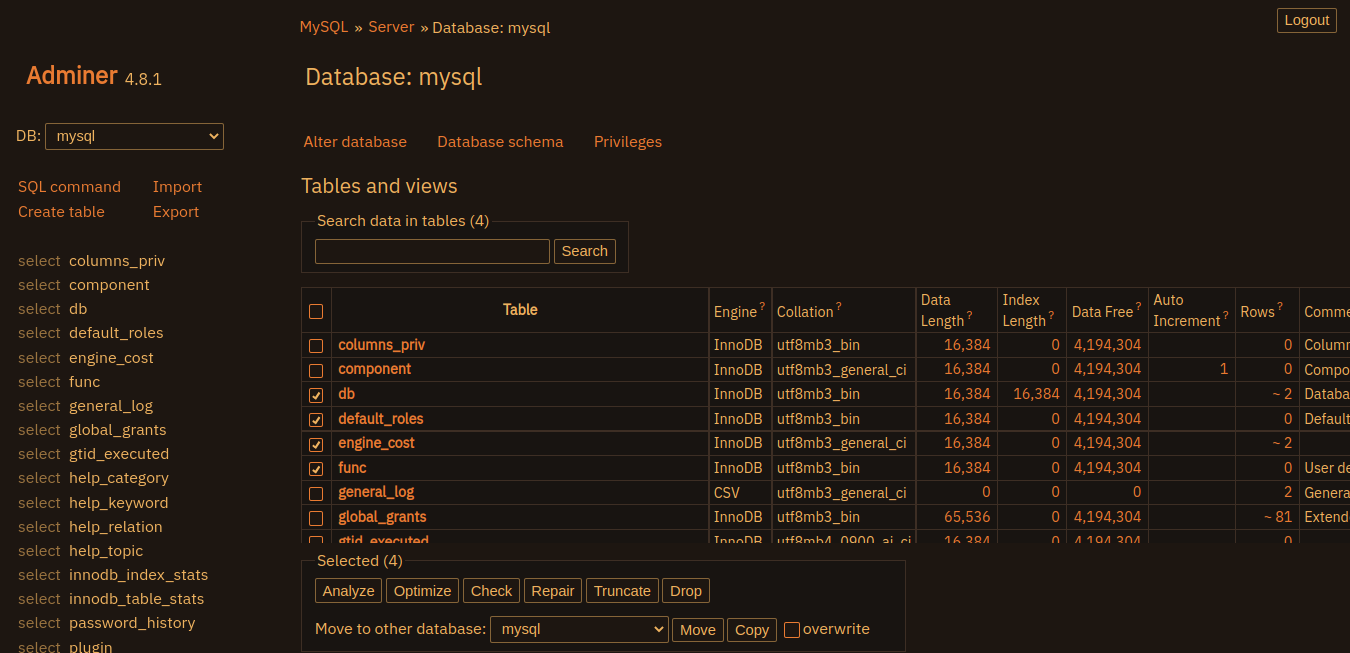
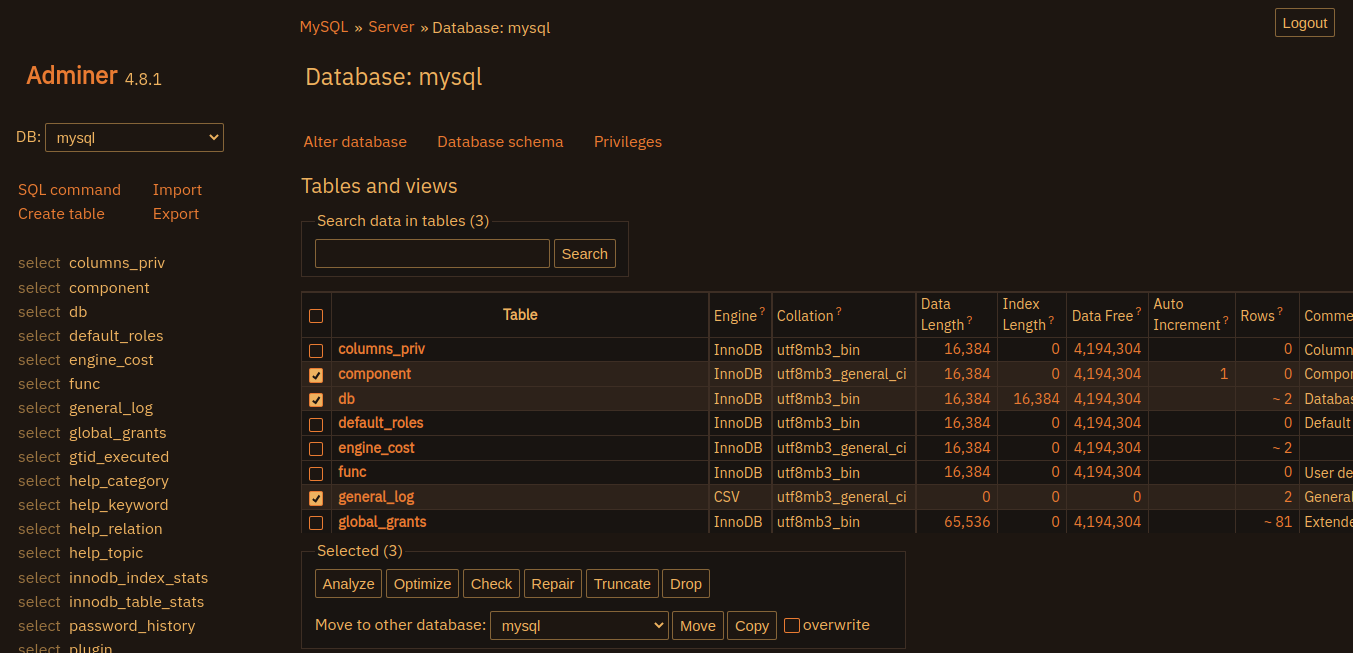
Input alignment fixes, wider scrollbar handle, more visible checkboxes

diff --git a/adminer.min.css b/adminer.min.css
@@ -1,1 +1,1 @@
-@import"https://fonts.googleapis.com/css2?family=IBM+Plex+Sans&display=swap";*{box-sizing:border-box;transition:box-shadow .1s}* :focus{box-shadow:0 0 0 2px rgba(233,123,50,.6);outline:none}::selection{background-color:rgba(233,123,50,.3)}body{background-color:#1d1611;font-family:"IBM Plex Sans",sans-serif;text-rendering:optimizeLegibility;color:#eeb25f}a{color:#e97b32;padding:2px}a:visited{color:#e97b32}a:hover{color:#eeb25f !important}a.active{text-decoration:underline;color:#e97b32;font-weight:normal}h1,h2,#tables a{background-color:inherit;border-bottom:none;color:inherit}.version,span.time{color:#eeb25f}#h1{color:#e97b32;font-weight:bold;font-style:normal}.select{opacity:.6}#menu p{border-bottom:none}#menu .links{display:grid;grid:auto/1fr 1fr}#menu .links a:last-child{grid-row:2}#menu .links a:nth-of-type(3){grid-column:2}#tables{border-bottom:none}#tables li{padding:2px 0}#tables li a:hover+a{text-decoration:underline}#content{margin-left:19em}#breadcrumb{top:.8em;left:19em;background-color:inherit}th,td,fieldset,.table,.error,.message{background-color:#181411 !important;border:1px solid #3d2e24 !important;cursor:default}.table .char{color:#e97b32}.table .date{color:#ace63f}.table .enum{color:#3fe6ae}.table .binary{color:#e63f3f}input[type=submit],button{cursor:pointer;transition:background-color .1s}input[type=submit]:hover,button:hover{background-color:#291f18}input[type=submit].default,button.default{box-shadow:inherit !important}select,input:not(.icon):not([type=checkbox]):not([type=radio]),textarea,pre[contenteditable]{padding:3px 6px;background-color:#1d1611;color:#eeb25f;border:1px solid rgba(238,178,95,.5) !important;border-radius:2px}input.icon{background-color:#1d1611;border-radius:2px;filter:sepia(1) saturate(5) brightness(0.8)}input.icon:hover{filter:sepia(1) saturate(5) brightness(1)}input[type=number]{min-width:4em}code{background:#1d1611;font-size:1.1em}.jush{color:#f1c88f}.jush a,.jush .jush-op{color:#e97b32}.jush .jush-help,.jush .jush-js_key{color:#eeb25f}.jush .jush-quo{color:#c8e932}.jush .jush-bac{color:#e77755}.jush .jush-op{color:#e25f5f}.message{color:#b9e63f}.footer{border:none;background-color:#1d1611;padding-top:.5em}.footer div{background:inherit}#logins{border-bottom:none}#logins a{background-color:inherit}::-webkit-scrollbar{width:7px;height:7px}::-webkit-scrollbar-button{width:0px;height:0px}::-webkit-scrollbar-thumb{background:#eeb25f;border:0px none #eeb25f;border-radius:3px}::-webkit-scrollbar-track{background:#111;border:0px none #eeb25f;border-radius:3px}::-webkit-scrollbar-corner{background:rgba(0,0,0,0)}input[type=checkbox],input[type=radio]{-webkit-appearance:none;appearance:none;background-color:#1d1611;margin:0 .2em;font:inherit;width:1em;height:1em;border:1px solid #e97b32;border-radius:2px;display:inline-grid;place-items:center}input[type=checkbox]:checked::before,input[type=radio]:checked::before{content:" ";height:.55em;width:.55em;background-color:#eeb25f;border-radius:1em}input[type=checkbox]:disabled,input[type=radio]:disabled{cursor:not-allowed;opacity:.5}input[type=checkbox]:checked::before{width:.65em;height:.65em;transform-origin:bottom left;clip-path:polygon(39% 65%, 76% 10%, 95% 24%, 46% 97%, 5% 67%, 18% 49%)}input[type=radio]{border-radius:9rem}.js .checkable .checked td,.js .checkable .checked th{background-color:#2d221a !important}.js .column{background:#1d1611;outline:1px solid #eeb25f}#help{background-color:#1d1611;border:1px solid #eeb25f}
+@import"https://fonts.googleapis.com/css2?family=IBM+Plex+Sans&display=swap";*{box-sizing:border-box;transition:box-shadow .1s}* :focus{box-shadow:0 0 0 2px rgba(233,123,50,.6);outline:none}::selection{background-color:rgba(233,123,50,.3)}body{background-color:#1d1611;font-family:"IBM Plex Sans",sans-serif;text-rendering:optimizeLegibility;color:#eeb25f}a{color:#e97b32;padding:2px}a:visited{color:#e97b32}a:hover{color:#eeb25f !important}a.active{text-decoration:underline;color:#e97b32;font-weight:normal}h1,h2,#tables a{background-color:inherit;border-bottom:none;color:inherit}.version,span.time{color:#eeb25f}#h1{color:#e97b32;font-weight:bold;font-style:normal}.select{opacity:.6}#menu p{border-bottom:none}#menu .links{display:grid;grid:auto/1fr 1fr}#menu .links a:last-child{grid-row:2}#menu .links a:nth-of-type(3){grid-column:2}#tables{border-bottom:none}#tables li{padding:2px 0}#tables li a:hover+a{text-decoration:underline}#content{margin-left:19em}#breadcrumb{top:.8em;left:19em;background-color:inherit}th,td,fieldset,.table,.error,.message{background-color:#181411 !important;border:1px solid #3d2e24 !important;cursor:default}.table .char{color:#e97b32}.table .date{color:#ace63f}.table .enum{color:#3fe6ae}.table .binary{color:#e63f3f}input[type=submit],button{cursor:pointer;transition:background-color .1s}input[type=submit]:hover,button:hover{background-color:#291f18}input[type=submit].default,button.default{box-shadow:inherit !important}select,input:not(.icon):not([type=checkbox]):not([type=radio]),textarea,pre[contenteditable]{padding:3px 6px;background-color:#1d1611;color:#eeb25f;border:1px solid rgba(238,178,95,.5) !important;border-radius:2px}select,input:not(.icon):not([type=checkbox]):not([type=radio]){height:2em}select{vertical-align:middle}input.icon{background-color:#1d1611;border-radius:2px;filter:sepia(1) saturate(5) brightness(0.8)}input.icon:hover{filter:sepia(1) saturate(5) brightness(1)}input[type=number]{min-width:4em}code{background:#1d1611;font-size:1.1em}.jush{color:#f1c88f}.jush a,.jush .jush-op{color:#e97b32}.jush .jush-help,.jush .jush-js_key{color:#eeb25f}.jush .jush-quo{color:#c8e932}.jush .jush-bac{color:#e77755}.jush .jush-op{color:#e25f5f}.message{color:#b9e63f}.footer{border:none;background-color:#1d1611;padding-top:.5em}.footer div{background:inherit}#logins{border-bottom:none}#logins a{background-color:inherit}::-webkit-scrollbar{width:9px;height:9px}::-webkit-scrollbar-button{width:0px;height:0px}::-webkit-scrollbar-thumb{background:#eeb25f;border:0px none #eeb25f;border-radius:3px}::-webkit-scrollbar-track{background:#111;border:0px none #eeb25f;border-radius:3px}::-webkit-scrollbar-corner{background:rgba(0,0,0,0)}input[type=checkbox],input[type=radio]{-webkit-appearance:none;appearance:none;background-color:#1d1611;margin:0 .2em;font:inherit;width:1em;height:1em;border:1px solid #e97b32;border-radius:2px;display:inline-grid;place-items:center}input[type=checkbox]:checked::before,input[type=radio]:checked::before{content:" ";height:.55em;width:.55em;background-color:#eeb25f;border-radius:1em}input[type=checkbox]:disabled,input[type=radio]:disabled{cursor:not-allowed;opacity:.5}input[type=checkbox]:checked{background-color:#eeb25f}input[type=checkbox]:checked::before{width:.65em;height:.65em;transform-origin:bottom left;background-color:#1d1611;clip-path:polygon(39% 65%, 76% 10%, 95% 24%, 46% 97%, 5% 67%, 18% 49%)}input[type=radio]{border-radius:9rem}.js .checkable .checked td,.js .checkable .checked th{background-color:#2d221a !important}.js .column{background:#1d1611;outline:1px solid #eeb25f}#help{background-color:#1d1611;border:1px solid #eeb25f;border-radius:2px}

diff --git a/adminer.scss b/adminer.scss
@@ -121,6 +121,12 @@ select, input:not(.icon):not([type="checkbox"]):not([type="radio"]), textarea, p
     border: 1px solid scale-color($color: $primary, $alpha: -50%) !important;
     border-radius: 2px;
 }
+select, input:not(.icon):not([type="checkbox"]):not([type="radio"]) {
+    height: 2em;
+}
+select {
+    vertical-align: middle;
+}
 input.icon {
     background-color: $dark;
     border-radius: 2px;
@@ -173,8 +179,8 @@ code {
 }
 
 ::-webkit-scrollbar {
-  width: 7px;
-  height: 7px;
+  width: 9px;
+  height: 9px;
 }
 ::-webkit-scrollbar-button {
   width: 0px;
@@ -218,11 +224,15 @@ input[type="checkbox"], input[type="radio"] {
         opacity: .5;
     }
 }
-input[type="checkbox"]:checked::before {
-    width: .65em;
-    height: .65em;
-    transform-origin: bottom left;
-    clip-path: polygon(39% 65%, 76% 10%, 95% 24%, 46% 97%, 5% 67%, 18% 49%);
+input[type="checkbox"]:checked {
+    background-color: $primary;
+    &::before  {
+        width: .65em;
+        height: .65em;
+        transform-origin: bottom left;
+        background-color: $dark;
+        clip-path: polygon(39% 65%, 76% 10%, 95% 24%, 46% 97%, 5% 67%, 18% 49%);
+    }
 }
 input[type="radio"] {
     border-radius: 9rem;
@@ -239,4 +249,5 @@ input[type="radio"] {
 #help {
     background-color: $dark;
     border: 1px solid $primary;
+    border-radius: 2px;
 }

diff --git a/adminer.css b/adminer.css
@@ -134,6 +134,14 @@ select, input:not(.icon):not([type=checkbox]):not([type=radio]), textarea, pre[c
   border-radius: 2px;
 }
 
+select, input:not(.icon):not([type=checkbox]):not([type=radio]) {
+  height: 2em;
+}
+
+select {
+  vertical-align: middle;
+}
+
 input.icon {
   background-color: #1d1611;
   border-radius: 2px;
@@ -192,8 +200,8 @@ code {
 }
 
 ::-webkit-scrollbar {
-  width: 7px;
-  height: 7px;
+  width: 9px;
+  height: 9px;
 }
 
 ::-webkit-scrollbar-button {
@@ -242,10 +250,14 @@ input[type=checkbox]:disabled, input[type=radio]:disabled {
   opacity: 0.5;
 }
 
+input[type=checkbox]:checked {
+  background-color: #eeb25f;
+}
 input[type=checkbox]:checked::before {
   width: 0.65em;
   height: 0.65em;
   transform-origin: bottom left;
+  background-color: #1d1611;
   clip-path: polygon(39% 65%, 76% 10%, 95% 24%, 46% 97%, 5% 67%, 18% 49%);
 }
 
@@ -264,4 +276,5 @@ input[type=radio] {
 #help {
   background-color: #1d1611;
   border: 1px solid #eeb25f;
+  border-radius: 2px;
 }
